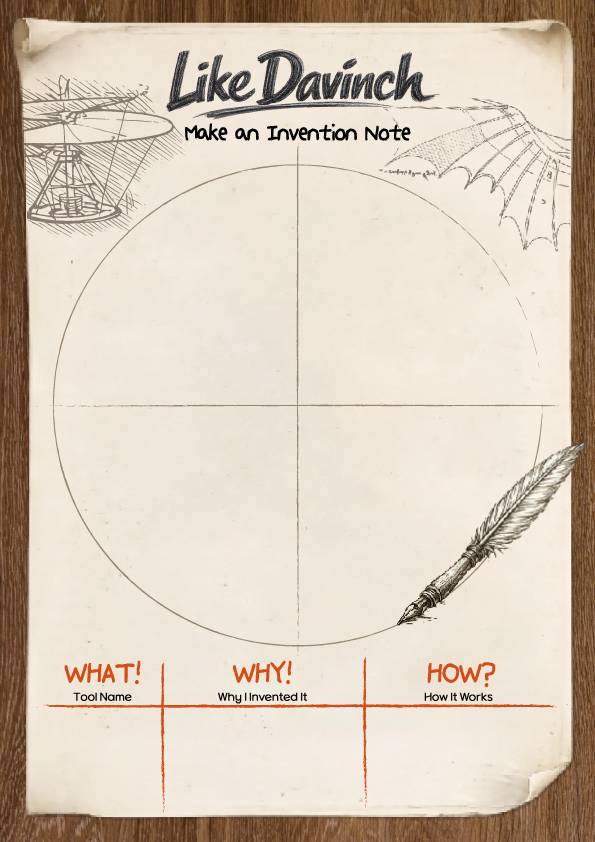
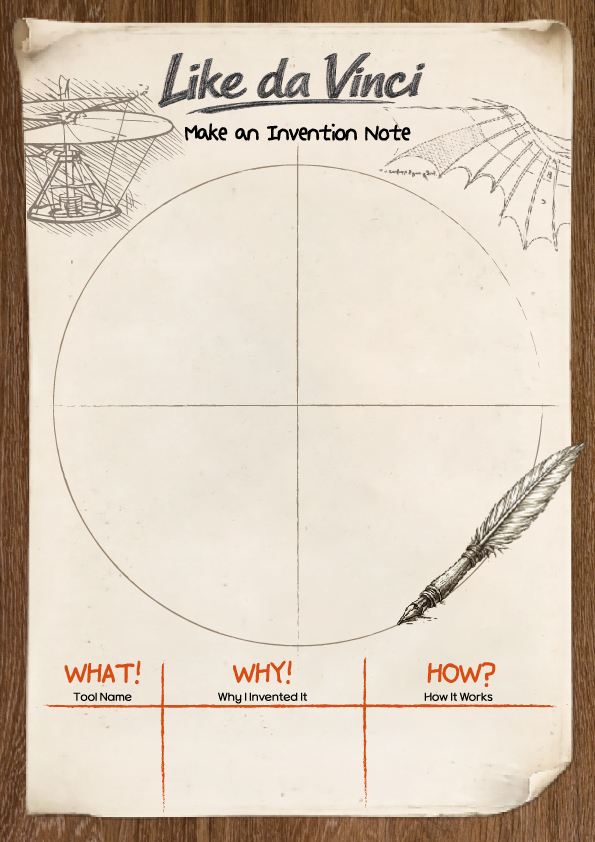
Update Da Vinci template and samples (jpg)

Changed region(s): [[0.2723, 0.0618, 0.7261, 0.1544]]

diff --git a/index.html b/index.html
@@ -733,7 +733,7 @@ const CATEGORIES={imagine:{name:'상상 · 연상 · 창의',nameEn:'Imagine · 
 ,{titleMain:'인공위성 디자인',img:'/thumbs/design-07.png',titleMainEn:'Satellite Design',titleSub:'하늘에 띄우는 나의 위성',titleSubEn:'My Satellite in the Sky',symbol:'🛰',desc:'지구 궤도를 도는 인공위성을 디자인합니다. 태양광 패널, 안테나, 관측 장비의 역할을 상상하며 과학과 디자인을 결합합니다.',descEn:'Design a satellite orbiting Earth. Combine science and design by imagining the roles of solar panels, antennas, and observation equipment.',skills:['과학적 사고','구조 설계','기능 상상력','시스템 이해','창의력'],skillsEn:['Scientific Thinking','Structure Design','Functional Imagination','Systems Thinking','Creativity'],isNew:true,isWeekly:false}
 ,{titleMain:'리플렛 디자인',img:'/thumbs/design-18.png',titleMainEn:'Leaflet Design',titleSub:'접히는 정보 디자인',titleSubEn:'Folding Information Design',symbol:'📄',desc:'3단 접지 리플렛을 디자인합니다. 정보의 위계와 순서를 고려한 레이아웃을 설계하고 인쇄 매체의 고유한 특성을 경험합니다.',descEn:'Design a tri-fold leaflet. Plan a layout considering information hierarchy and sequence, and experience the unique qualities of print media.',skills:['정보 설계','인쇄 디자인','레이아웃','계층 구조','시각적 흐름'],skillsEn:['Information Architecture','Print Design','Layout','Hierarchy','Visual Flow'],isNew:false,isWeekly:false}
 ,{titleMain:'로고 발전사',img:'/thumbs/design-19.png',titleMainEn:'Logo Evolution',titleSub:'어떻게 바뀌었을까?',titleSubEn:'How Did It Change?',symbol:'🔄',desc:'유명 브랜드의 로고 변화를 분석하고 나만의 버전으로 재디자인합니다. 디자인 트렌드와 브랜드 아이덴티티의 진화를 탐구합니다.',descEn:'Analyze logo changes of famous brands and redesign your own version. Explore the evolution of design trends and brand identity.',skills:['역사적 분석','트렌드 이해','재해석','브랜드 연구','비판적 시각'],skillsEn:['Historical Analysis','Trend Understanding','Reinterpretation','Brand Research','Critical Eye'],isNew:false,isWeekly:false}
-]},steam:{name:'과학 · 역사 · 문화 탐험',nameEn:'Science · History · Culture',badge:'STEAM EXPLORE',color:'#534AB7',colorBg:'#EEEDFE',colorDark:'#26215C',items:[{titleMain:'다빈치 노트',img:'/samples/davinci-1.png',titleMainEn:'Like Da Vinci',titleSub:'다빈치처럼 발명 노트 만들기',titleSubEn:'Make an Invention Note Like Da Vinci',symbol:'✒',desc:'다빈치처럼 상상한 발명품을 그림과 메모로 기록하는 나만의 발명 노트를 만드는 활동입니다. 관찰과 상상, 설계적 사고를 키웁니다.',descEn:'Create your own invention note recording imagined inventions with drawings and notes, just like Da Vinci. Builds observation, imagination and design thinking.',skills:['발명 상상력','관찰력','기록','설계 사고','창의력'],skillsEn:['Inventive Imagination','Observation','Documentation','Design Thinking','Creativity'],isNew:true,isWeekly:false,templateUrl:'/templates/steam-davinci.jpg',samplesUrls:['/samples/davinci-1.png','/samples/davinci-2.png','/samples/davinci-3.png','/samples/davinci-4.png'],exhibitUrl:'https://www.wagldoodle.com/exhibitions/ex-user-1782777697831'},{titleMain:'내 손으로 짓는 궤도: 가장 완벽한 우주여행',img:'/thumbs/steam-20.png',titleMainEn:'Blueprint to the Stars: The Space Architect',titleSub:'우주비행선 설계',titleSubEn:'Blueprint of a Spaceship',symbol:'🚀',desc:'머릿속 상상력을 도면 위로, 스케치북에서 우주로.',descEn:'No rocket license? No problem. Start with a blueprint.',skills:['설계 상상력','구조 이해','도면 그리기','공간 사고','창의력'],skillsEn:['Design Imagination','Structure','Blueprinting','Spatial Thinking','Creativity'],isNew:true,isWeekly:false,templateUrl:'/templates/steam-blueprint-stars.jpg'},
+]},steam:{name:'과학 · 역사 · 문화 탐험',nameEn:'Science · History · Culture',badge:'STEAM EXPLORE',color:'#534AB7',colorBg:'#EEEDFE',colorDark:'#26215C',items:[{titleMain:'다빈치 노트',img:'/samples/davinci-1.jpg',titleMainEn:'Like Da Vinci',titleSub:'다빈치처럼 발명 노트 만들기',titleSubEn:'Make an Invention Note Like Da Vinci',symbol:'✒',desc:'다빈치처럼 상상한 발명품을 그림과 메모로 기록하는 나만의 발명 노트를 만드는 활동입니다. 관찰과 상상, 설계적 사고를 키웁니다.',descEn:'Create your own invention note recording imagined inventions with drawings and notes, just like Da Vinci. Builds observation, imagination and design thinking.',skills:['발명 상상력','관찰력','기록','설계 사고','창의력'],skillsEn:['Inventive Imagination','Observation','Documentation','Design Thinking','Creativity'],isNew:true,isWeekly:false,templateUrl:'/templates/steam-davinci.jpg',samplesUrls:['/samples/davinci-1.jpg','/samples/davinci-2.jpg','/samples/davinci-3.jpg','/samples/davinci-4.jpg'],exhibitUrl:'https://www.wagldoodle.com/exhibitions/ex-user-1782777697831'},{titleMain:'내 손으로 짓는 궤도: 가장 완벽한 우주여행',img:'/thumbs/steam-20.png',titleMainEn:'Blueprint to the Stars: The Space Architect',titleSub:'우주비행선 설계',titleSubEn:'Blueprint of a Spaceship',symbol:'🚀',desc:'머릿속 상상력을 도면 위로, 스케치북에서 우주로.',descEn:'No rocket license? No problem. Start with a blueprint.',skills:['설계 상상력','구조 이해','도면 그리기','공간 사고','창의력'],skillsEn:['Design Imagination','Structure','Blueprinting','Spatial Thinking','Creativity'],isNew:true,isWeekly:false,templateUrl:'/templates/steam-blueprint-stars.jpg'},
 {titleMain:'상상으로 떠나는 페스티벌 투어',img:'/thumbs/steam-01.png',descEn:'Explore unique festivals from around the world and express their meaning and cultural background through digital drawing. Draw Thailand\'s water festival directly through the Wagldoodle Songkran activity!',titleMainEn:'A World Festival Journey Through Imagination',titleSub:'',titleSubEn:'',symbol:'🎊',desc:'세계 각지의 독특한 축제를 탐구하고, 축제의 의미와 문화적 배경을 디지털 드로잉으로 표현합니다. 와글두들 송크란 활동으로 태국의 물 축제를 직접 그려보아요!',skills:['문화 이해','세계사','창의적 표현','탐구','공감'],skillsEn:['Cultural Understanding','World History','Creative Expression','Inquiry','Empathy'],isNew:true,isWeekly:false,actionUrl:'https://www.wagldoodle.com/exhibitions/ex-user-1780661905708',resourceUrlKo:'https://canva.link/jblpfverxil0tjb',resourceUrlEn:'https://canva.link/yilws9obhzckr41'},{titleMain:'명화 플렉스',img:'/thumbs/steam-02.png',descEn:'Fusing chemistry (pigments) and art to reinterpret dark masterpieces in different colors. Discover new perspectives on masterpieces by Rembrandt and Millet through historical pigment stories.',titleMainEn:'Masterpiece Flex',titleSub:'과학과 미술이 만나면',titleSubEn:'When Science Meets Art',symbol:'◈',desc:'화학(안료)과 미술을 융합하여 어두운 명화를 다른 색상으로 재해석합니다.',skills:['과학-미술 융합','색채 과학','명화 이해','재해석','탐구력'],skillsEn:['STEAM Fusion','Color Science','Art History','Reinterpretation','Inquiry'],isNew:true,isNew:false,isWeekly:false},{titleMain:'그때 그 사람',img:'/thumbs/steam-03.png',descEn:'Draw a montage of historically famous but visually unclear figures based on visual and technical data. Apply human proportions and math/science concepts to digital drawing.',titleMainEn:'That Person Back Then',titleSub:'몽타쥬 그리기',titleSubEn:'Drawing a Montage',symbol:'人',desc:'역사적으로 유명하지만 실제 외모가 불분명한 인물의 몽타쥬를 데이터 기반으로 그립니다.',skills:['역사-미술 융합','인체 비율','데이터 기반 사고','탐구','비판적 사고'],skillsEn:['History-Art Fusion','Human Proportions','Data-Based Thinking','Inquiry','Critical Thinking'],isNew:true,isNew:false,isWeekly:false},{titleMain:'원소 캐릭터',img:'/thumbs/steam-04.png',titleMainEn:'Element Character',titleSub:'주기율표가 살아난다',titleSubEn:'The Periodic Table Comes Alive',symbol:'⚗',desc:'주기율표의 원소들을 개성 있는 캐릭터로 변환합니다. 각 원소의 특성—색깔, 무게, 반응성—을 캐릭터 디자인에 반영합니다.',descEn:'Transform periodic table elements into unique characters. Reflect each element\'s properties—color, weight, reactivity—in the character design.',skills:['과학적 이해','캐릭터 창작','시각적 은유','연구 능력','창의적 해석'],skillsEn:['Scientific Understanding','Character Creation','Visual Metaphor','Research Skills','Creative Interpretation'],isNew:false,isWeekly:false}
 ,{titleMain:'건축 도면 스케치',img:'/thumbs/steam-05.png',titleMainEn:'Architecture Blueprint',titleSub:'나만의 집을 설계해',titleSubEn:'Design My Own House',symbol:'🏗',desc:'꿈의 집이나 미래 학교를 설계합니다. 평면도와 입면도를 그리면서 건축의 기본 원리와 공간 구성을 탐구합니다.',descEn:'Design a dream home or school of the future. Draw floor plans and elevations while exploring basic architectural principles and spatial composition.',skills:['공간 설계','비율 이해','창의적 기획','수학적 사고','입체 표현'],skillsEn:['Spatial Design','Proportion Understanding','Creative Planning','Mathematical Thinking','3D Expression'],isNew:false,isWeekly:false}
 ,{titleMain:'우주 지도',img:'/thumbs/steam-06.png',titleMainEn:'Space Map',titleSub:'별자리부터 블랙홀까지',titleSubEn:'From Constellations to Black Holes',symbol:'🌌',desc:'우주의 구조를 나만의 스타일로 지도화합니다. 태양계, 별자리, 성운, 블랙홀 등 우주 요소들을 과학적으로 정확하면서도 예술적으로 표현합니다.',descEn:'Map the structure of the universe in your own style. Express cosmic elements—solar system, constellations, nebulae, black holes—both scientifically and artistically.',skills:['천문학 이해','지도 제작','스케일 감각','과학적 표현','색채 활용'],skillsEn:['Astronomy Understanding','Cartography','Scale Sense','Scientific Expression','Color Use'],isNew:false,isWeekly:false}
